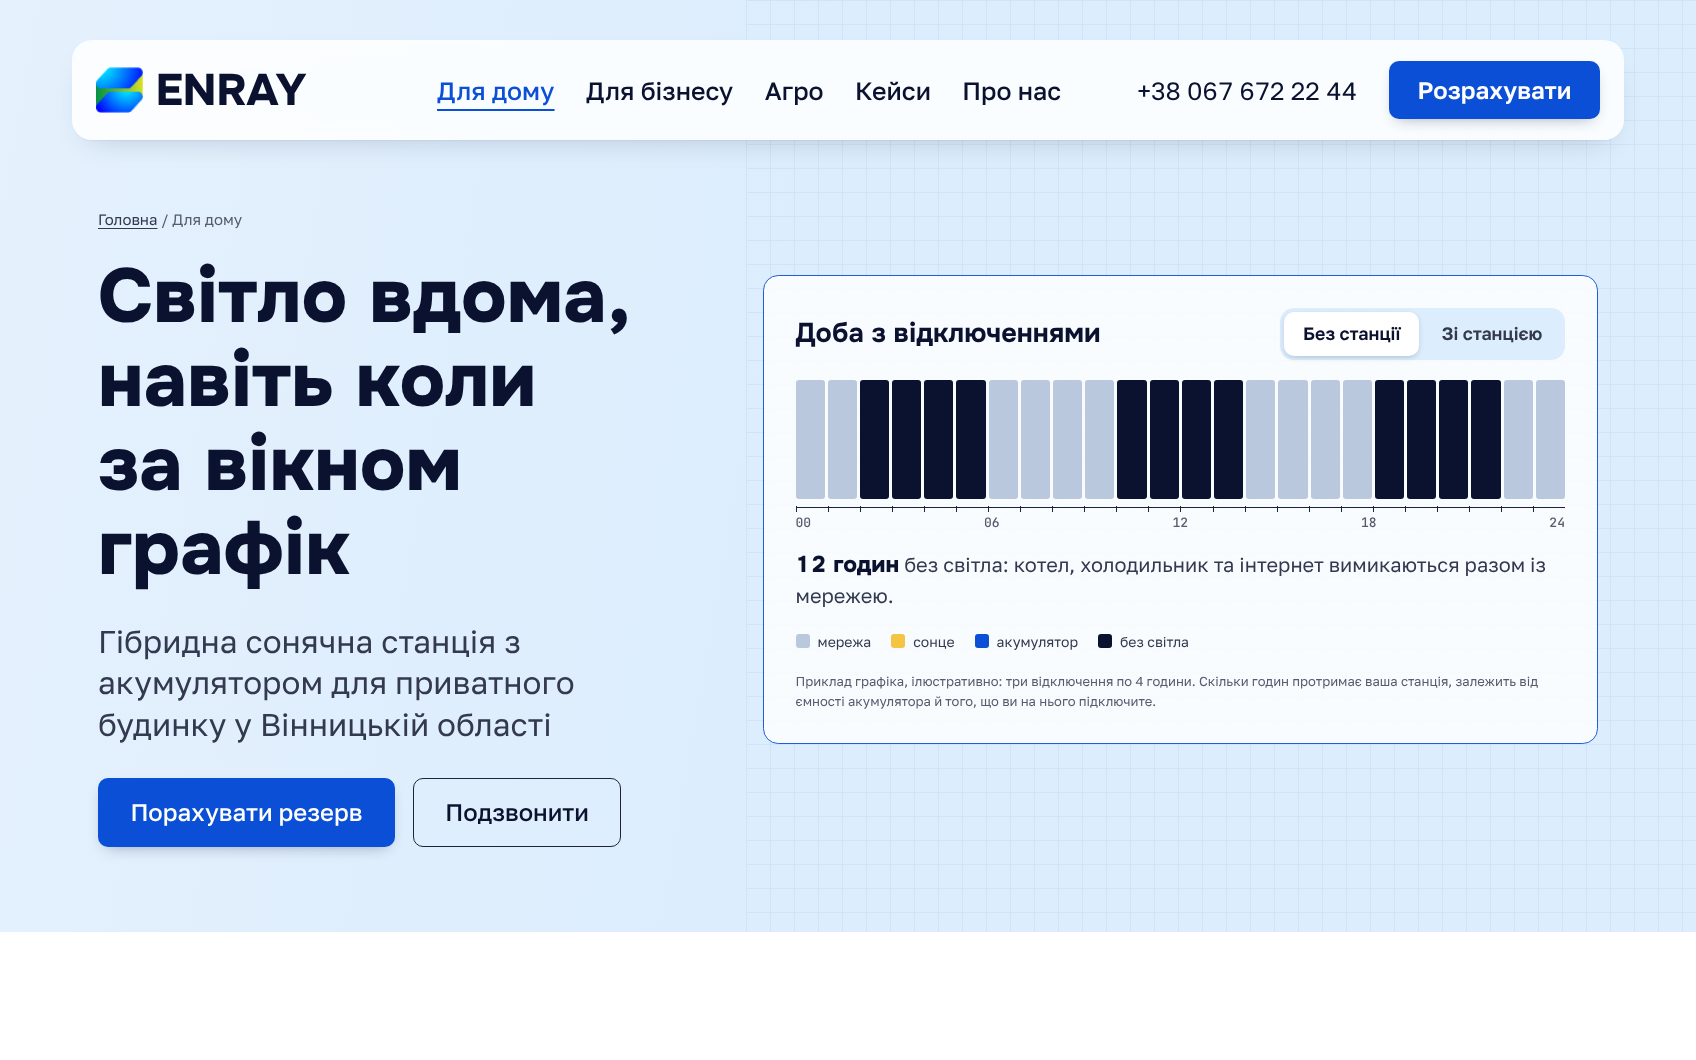
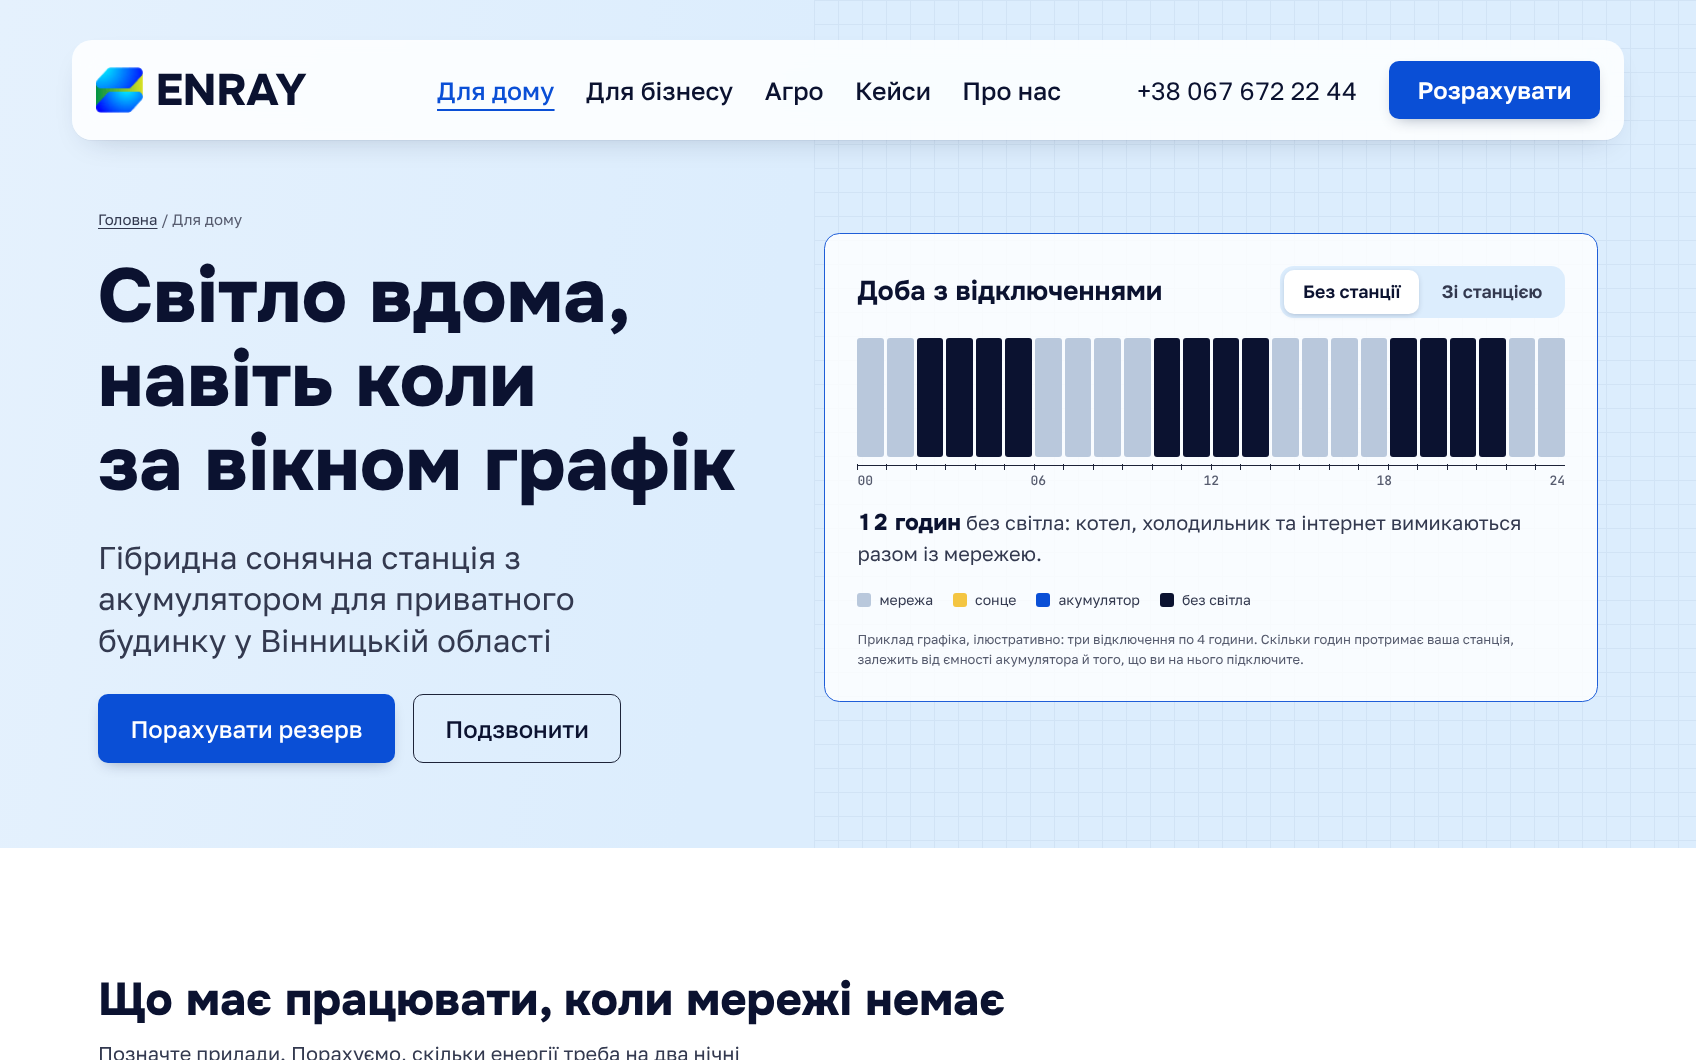
Apply finish-review fixes to Дім page
Annotated 6 kW case photo with live SVG labels, solid mobile bar and
outline button, multi-line reserve field, stated battery-guide rule,
consistent sun hours (7–18) across strip, table and calculator, 50/50
hero, footer absorbs sticky-bar space instead of body padding.

Claude-Session: https://claude.ai/code/session_01KGfZvnn7nUXhb1RoE8ibfu

Changed region(s): [[0.2812, 0.2179, 0.9688, 0.716], [0.0, 0.4981, 1.0, 0.9028], [0.0625, 0.934, 0.5938, 1.0]]

diff --git a/enray/dim/index.html b/enray/dim/index.html
@@ -116,9 +116,9 @@
       <div class="rezerv-result" aria-live="polite">
         <p class="rz-label">Енергія на 8 нічних годин відключень</p>
         <p class="rz-kwh"><span id="rz-kwh">≈ 2,5</span> <small>кВт·год</small></p>
-        <p class="rz-label">Орієнтир ємності акумулятора</p>
+        <p class="rz-label">Орієнтир ємності акумулятора · приклад</p>
         <p class="rz-bat" id="rz-bat">від 5 кВт·год</p>
-        <p class="rz-note">Середня потужність приладів орієнтовна, із запасом 25%. Денні відключення закривають панелі, якщо світить сонце. Точну схему й ємність інженер підбере після огляду.</p>
+        <p class="rz-note">Орієнтовно: середня потужність кожного приладу × 8 нічних годин (кожен прилад, зокрема бойлер, рахуємо увімкненим усі 8 годин), плюс запас 25% з округленням угору до кроку 5 кВт·год. Денні відключення закривають панелі, якщо світить сонце. Точну схему й ємність інженер підбере після огляду.</p>
         <a class="link-strong" href="#zayavka" id="rz-cta">Надіслати цей набір інженеру <svg class="ico"><use href="#i-arrow"/></svg></a>
       </div>
     </div>
@@ -128,7 +128,12 @@
     <h2 id="case-h">Як це виглядає на даху</h2>
     <div class="cf-grid">
       <figure class="cf-main">
-        <img src="../assets/plates/dim-case.webp" width="1200" height="800" alt="Сонячні панелі на даху цегляного будинку: станція EnRay 6 кВт у Вінницькій області" loading="lazy">
+        <img src="../assets/plates/dim-case.webp" width="1200" height="735" alt="Сонячні панелі на даху цегляного будинку: станція EnRay 6 кВт у Вінницькій області" loading="lazy">
+        <svg class="callouts" viewBox="0 0 1200 735" preserveAspectRatio="xMidYMax slice" aria-hidden="true" focusable="false">
+          <text x="375" y="56" text-anchor="middle">дахова СЕС · 2024</text>
+          <text x="470" y="146" text-anchor="middle" transform="rotate(10 470 146)">6 кВт</text>
+          <text x="750" y="152" text-anchor="middle">монтаж — 1 тиждень</text>
+        </svg>
       </figure>
       <div class="cf-side">
         <dl class="cf-spec">
@@ -198,7 +203,7 @@
         <div class="field"><label for="f-phone">Телефон</label><input id="f-phone" name="phone" type="tel" autocomplete="tel" inputmode="tel" placeholder="+38 0__ ___ __ __" required></div>
         <div class="field"><label for="f-place">Населений пункт</label><input id="f-place" name="place" type="text" autocomplete="address-level2"></div>
         <div class="field"><label for="f-bill">Рахунок, грн/міс</label><input id="f-bill" name="bill" type="text" inputmode="numeric" placeholder="наприклад, 2500"></div>
-        <div class="field field--wide"><label for="f-loads">Що тримати на резерві</label><input id="f-loads" name="loads" type="text" value="холодильник, газовий котел, роутер і зарядки, світло"></div>
+        <div class="field field--wide"><label for="f-loads">Що тримати на резерві</label><textarea id="f-loads" name="loads" rows="2">холодильник, газовий котел, роутер і зарядки, світло</textarea></div>
         <button class="btn btn-primary btn-lg" type="submit">Надіслати запит</button>
         <p class="form-msg" id="form-msg" role="status"></p>
       </form>

diff --git a/enray/assets/css/scenario.css b/enray/assets/css/scenario.css
@@ -12,8 +12,8 @@
 .nav-links a[aria-current="page"], .mobile-menu a[aria-current="page"] { color: var(--cobalt); text-decoration: underline; text-decoration-thickness: 2px; text-underline-offset: .35em; }
 
 /* Hero */
-.hero--scenario { grid-template-columns: minmax(0, 46fr) minmax(0, 54fr); align-items: center; gap: clamp(24px, 3vw, 56px); padding-right: var(--gutter); }
-.hero--scenario::after { inset: 0 0 0 44%; z-index: 0; mix-blend-mode: normal; opacity: .7; }
+.hero--scenario { grid-template-columns: minmax(0, 1fr) minmax(0, 1fr); align-items: center; gap: clamp(24px, 3vw, 56px); padding-right: var(--gutter); }
+.hero--scenario::after { inset: 0 0 0 48%; z-index: 0; mix-blend-mode: normal; opacity: .7; }
 .hero--scenario .hero-copy { padding-bottom: clamp(40px, 5vw, 90px); }
 .hero--scenario h1 { font-size: clamp(40px, 4.5vw, 84px); max-width: 10.5em; }
 .crumbs { font-size: 15px; color: var(--muted); margin-bottom: clamp(14px, 1.4vw, 24px); }
@@ -46,7 +46,6 @@
 .cell--dark { background: var(--st-dark); }
 .cell--sun { background: var(--st-sun); }
 .cell--bat { background: var(--st-bat); }
-.cell--sunlit { box-shadow: inset 0 4px 0 var(--st-sun); }
 .no-motion .cell { transition: none; }
 .day-scale { display: flex; justify-content: space-between; font: 500 13px/1 var(--f-mono); color: var(--muted); font-variant-numeric: tabular-nums; border-top: 1.5px solid var(--rule-strong); padding-top: 8px; position: relative; }
 .day-scale::before { content: ""; position: absolute; left: 0; right: 0; top: -1.5px; height: 6px; background: repeating-linear-gradient(90deg, var(--rule-strong) 0 1px, transparent 1px calc(100% / 24)); }
@@ -89,8 +88,9 @@
 /* Кейс */
 .case-feature h2 { margin-bottom: clamp(20px, 1.8vw, 30px); }
 .cf-grid { display: grid; grid-template-columns: minmax(0, 2fr) minmax(0, 1fr); gap: clamp(16px, 2vw, 34px); }
-.cf-main { margin: 0; }
-.cf-main img { width: 100%; height: 100%; aspect-ratio: 3 / 2; object-fit: cover; border-radius: var(--radius); }
+.cf-main { margin: 0; position: relative; border-radius: var(--radius); overflow: hidden; }
+.cf-main img { width: 100%; height: 100%; aspect-ratio: 3 / 2; object-fit: cover; object-position: 50% 100%; }
+.cf-main .callouts text { font-size: 24px; }
 .cf-side { display: grid; gap: clamp(16px, 1.6vw, 26px); align-content: start; }
 .cf-spec { margin: 0; display: grid; border-top: 1.5px solid var(--rule-strong); }
 .cf-spec div { display: flex; justify-content: space-between; align-items: baseline; gap: 16px; padding: 12px 0; border-bottom: 1px solid var(--rule); }
@@ -124,6 +124,9 @@
 /* Заявка */
 .closing--scenario { grid-template-columns: minmax(0, 783fr) minmax(0, 560fr); align-items: start; }
 .field--wide { grid-column: 1 / -1; }
+.field textarea { width: 100%; min-height: 72px; padding: 12px 14px; border-radius: 10px; border: 1.5px solid #3a4b66; background: var(--navy-2); color: #fff; font: 400 17px/1.4 var(--f-body); resize: vertical; field-sizing: content; transition: border-color .2s, background-color .2s; }
+.field textarea:hover { border-color: #5a6f90; }
+.field textarea:focus { outline: none; border-color: #6f9cff; background: #172b49; }
 .closing-aside { display: grid; gap: 16px; align-content: start; padding-top: clamp(8px, 1vw, 20px); }
 .closing-aside p { color: var(--ink-2); max-width: 38ch; }
 .big-phone { margin: 0; font: 700 clamp(26px, 2.2vw, 38px)/1.1 var(--f-display); }
@@ -145,4 +148,5 @@
   .load { gap: 12px; }
   .load-kw { font-size: 13px; }
   .closing-aside { display: none; }
+  .cf-main .callouts text { font-size: 34px; }
 }

diff --git a/enray/assets/js/scenario.js b/enray/assets/js/scenario.js
@@ -6,7 +6,7 @@
 
   // Доба з відключеннями: приклад графіка (ілюстративно)
   var OUTAGES = [[2, 6], [10, 14], [18, 22]];
-  var SUN = [7, 19];                      // години, коли панелі дають енергію
+  var SUN = [7, 18];                      // години, коли панелі дають енергію
   var cellsBox = document.getElementById('day-cells');
   var strip = document.querySelector('.day-strip');
   var summary = document.getElementById('day-summary');
@@ -14,7 +14,7 @@
 
   function isOut(h) { return OUTAGES.some(function (o) { return h >= o[0] && h < o[1]; }); }
   function kind(h, mode) {
-    if (!isOut(h)) return mode === 'on' && h >= SUN[0] && h < SUN[1] ? 'grid sun' : 'grid';
+    if (!isOut(h)) return 'grid';
     if (mode === 'off') return 'dark';
     return h >= SUN[0] && h < SUN[1] ? 'sun' : 'bat';
   }
@@ -22,7 +22,7 @@
   if (cellsBox) {
     for (var h = 0; h < 24; h++) {
       var c = document.createElement('span');
-      c.className = 'cell cell--' + kind(h, 'off').split(' ')[0];
+      c.className = 'cell cell--' + kind(h, 'off');
       c.style.setProperty('--i', h);
       cellsBox.appendChild(c);
     }
@@ -39,8 +39,7 @@
     summary.innerHTML = TEXT[mode];
     var cells = cellsBox.children;
     for (var h = 0; h < cells.length; h++) {
-      var k = kind(h, mode).split(' ');
-      cells[h].className = 'cell cell--' + k[0] + (k[1] ? ' cell--sunlit' : '');
+      cells[h].className = 'cell cell--' + kind(h, mode);
     }
   }
   btns.forEach(function (b) { b.addEventListener('click', function () { setMode(b.dataset.mode); }); });
@@ -61,7 +60,7 @@
     var bat = BATS.find(function (b) { return b >= need; });
     kwhOut.textContent = '≈ ' + fmt1.format(kwh);
     batOut.textContent = !names.length ? 'оберіть прилади' : bat ? 'від ' + bat + ' кВт·год' : 'понад 30 кВт·год';
-    if (fLoads) fLoads.value = names.join(', ');
+    if (fLoads) { fLoads.value = names.join(', '); fLoads.style.height = 'auto'; fLoads.style.height = fLoads.scrollHeight + 'px'; }
   }
   loads.forEach(function (i) { i.addEventListener('change', calc); });
   if (kwhOut) calc();

diff --git a/enray/assets/css/style.css b/enray/assets/css/style.css
@@ -245,7 +245,6 @@ input[type=range]:focus-visible::-webkit-slider-thumb { box-shadow: 0 0 0 4px rg
 /* Phone */
 @media (max-width: 720px) {
   html { scroll-padding-top: 88px; }
-  body { padding-bottom: calc(76px + env(safe-area-inset-bottom, 0px)); }
   .site-header { padding: 0; margin-bottom: -64px; }
   .nav { border-radius: 0; min-height: 64px; gap: 10px; padding: 8px 16px; box-shadow: 0 1px 0 rgba(13,31,66,.08); }
   .nav-phone, .nav-cta { display: none; }
@@ -286,7 +285,9 @@ input[type=range]:focus-visible::-webkit-slider-thumb { box-shadow: 0 0 0 4px rg
     display: grid; grid-template-columns: 1fr 1fr; gap: 10px;
     position: fixed; z-index: 40; left: 0; right: 0; bottom: 0;
     padding: 10px 16px calc(10px + env(safe-area-inset-bottom, 0px));
-    background: rgba(255,255,255,.96); box-shadow: 0 -10px 24px -16px rgba(13,31,66,.35);
+    background: var(--paper); box-shadow: 0 -10px 24px -16px rgba(13,31,66,.35);
   }
   .mobile-bar .btn { min-height: 52px; font-size: 18px; }
+  .mobile-bar .btn-outline { background: var(--paper); }
+  .site-footer { padding-bottom: calc(28px + 76px + env(safe-area-inset-bottom, 0px)); }
 }
